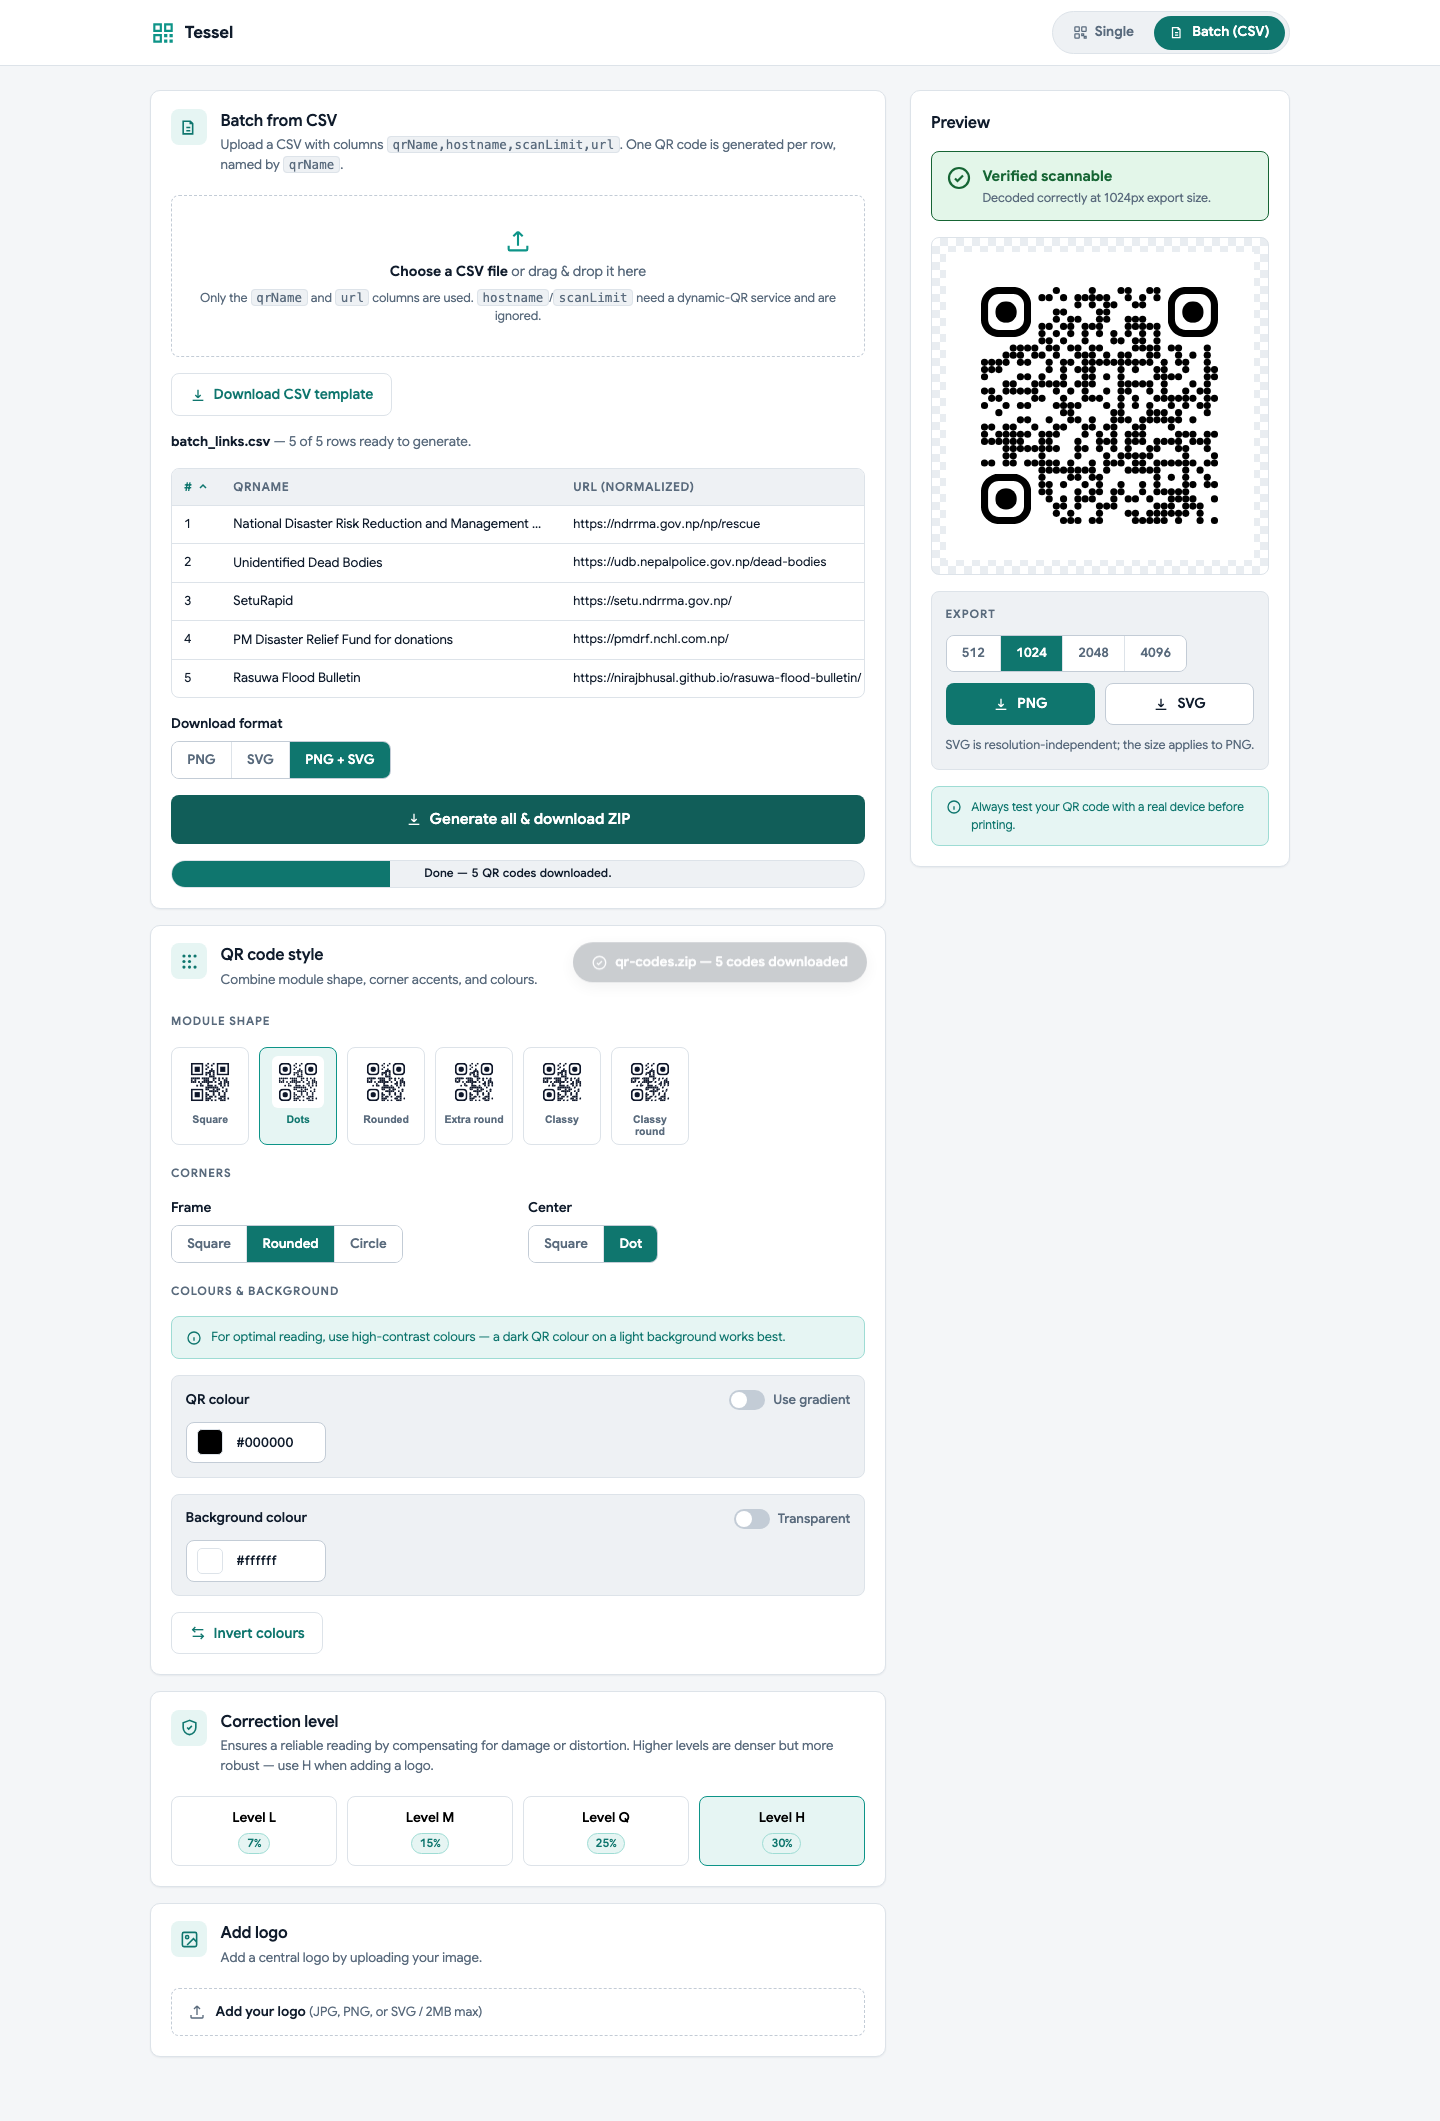
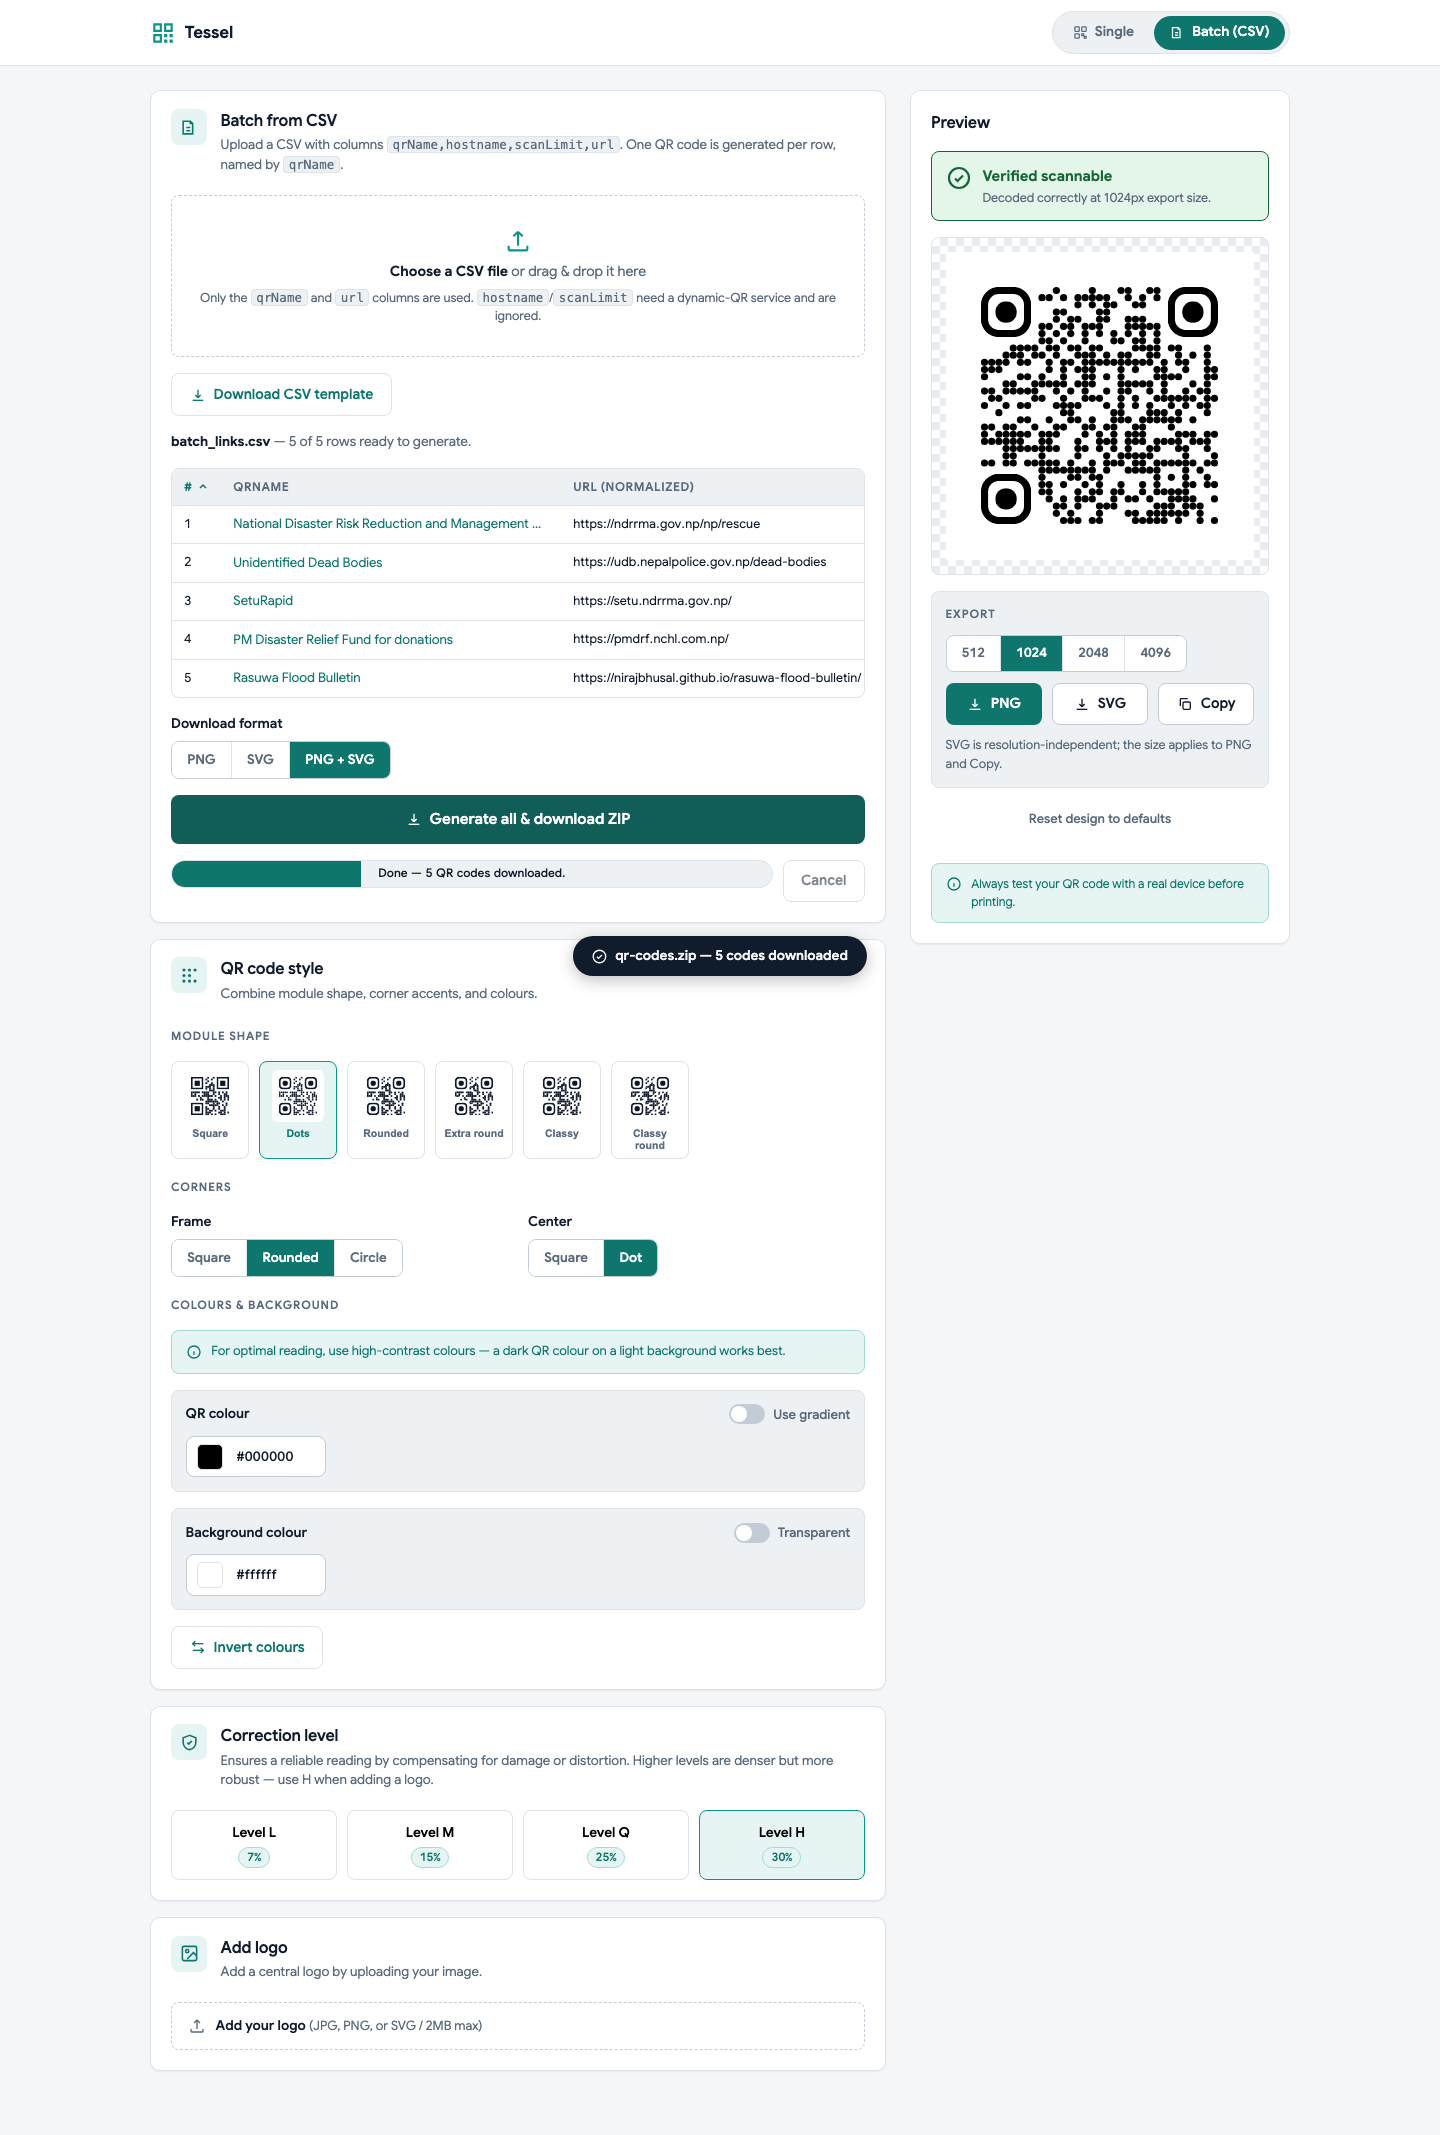
UX upgrades from experience audit
- Copy PNG to clipboard (hidden where unsupported), disabled with
  downloads when content is empty
- Arrow-key selection in every radiogroup (WAI-ARIA pattern)
- Seeded example URL selects on first focus so typing replaces it
- Reset design to defaults with toast confirmation
- Batch row names link to a Single-tab preview of that row
- Cancel button for in-flight batch generation
- #rgb shorthand accepted in hex fields
- 6 new e2e regressions; export row made shrink-safe at 375px

diff --git a/js/app.js b/js/app.js
@@ -238,6 +238,7 @@
     const empty = !state.content;
     $("btn-download-png").disabled = empty;
     $("btn-download-svg").disabled = empty;
+    $("btn-copy-png").disabled = empty;
     // Dense-code guideline: long content means small modules that scan
     // poorly in print — surface it before the user finds out at the printer.
     const hint = $("content-hint");
@@ -250,7 +251,14 @@
     }
   }
 
+  // Select the seeded example on first focus so typing replaces it directly
+  let contentPristine = true;
+  $("qr-content").addEventListener("focus", (e) => {
+    if (contentPristine) e.target.select();
+  });
+
   $("qr-content").addEventListener("input", (e) => {
+    contentPristine = false;
     state.content = e.target.value.trim();
     syncContentState();
     refreshPreview();
@@ -270,7 +278,9 @@
       refreshPreview();
     });
     hexInput.addEventListener("input", () => {
-      const v = hexInput.value.trim();
+      let v = hexInput.value.trim();
+      // accept #rgb shorthand
+      if (/^#[0-9a-fA-F]{3}$/.test(v)) v = "#" + [...v.slice(1)].map((c) => c + c).join("");
       if (/^#[0-9a-fA-F]{6}$/.test(v)) {
         state[key] = v;
         colorInput.value = v;
@@ -307,15 +317,19 @@
   });
 
   // ---------- Segmented helpers ----------
+  function setSegmented(containerId, datasetKey, value) {
+    $(containerId).querySelectorAll(".seg-btn").forEach((b) => {
+      const on = b.dataset[datasetKey] === value;
+      b.classList.toggle("active", on);
+      if (b.getAttribute("role") === "radio") b.setAttribute("aria-checked", String(on));
+    });
+  }
+
   function bindSegmented(containerId, datasetKey, apply) {
-    const container = $(containerId);
-    container.addEventListener("click", (e) => {
+    $(containerId).addEventListener("click", (e) => {
       const btn = e.target.closest(".seg-btn");
       if (!btn) return;
-      container.querySelectorAll(".seg-btn").forEach((b) => {
-        b.classList.toggle("active", b === btn);
-        if (b.getAttribute("role") === "radio") b.setAttribute("aria-checked", String(b === btn));
-      });
+      setSegmented(containerId, datasetKey, btn.dataset[datasetKey]);
       apply(btn.dataset[datasetKey]);
     });
   }
@@ -405,6 +419,67 @@
 
   $("btn-download-png").addEventListener("click", () => downloadSingle("png"));
   $("btn-download-svg").addEventListener("click", () => downloadSingle("svg"));
+
+  // ---------- Copy to clipboard ----------
+  if (!(navigator.clipboard && window.ClipboardItem)) {
+    $("btn-copy-png").classList.add("hidden"); // no clipboard-image support
+  }
+  $("btn-copy-png").addEventListener("click", async () => {
+    try {
+      const qr = new QRCodeStyling(buildOptions());
+      const blob = await qr.getRawData("png");
+      await navigator.clipboard.write([new ClipboardItem({ "image/png": blob })]);
+      showToast("PNG copied to clipboard");
+    } catch {
+      showToast("Copy failed — try downloading instead");
+    }
+  });
+
+  // ---------- Reset design ----------
+  const DESIGN_DEFAULTS = {
+    dotsType: "dots",
+    dotsColor: "#000000",
+    dotsColor2: "#0D9488",
+    dotsGradient: false,
+    bgColor: "#ffffff",
+    bgTransparent: false,
+    cornersSquareType: "extra-rounded",
+    cornersDotType: "dot",
+    ecc: "H",
+    logo: null,
+    logoSize: 0.3,
+    logoHideDots: true,
+  };
+
+  $("btn-reset-design").addEventListener("click", () => {
+    Object.assign(state, DESIGN_DEFAULTS);
+    styleGrid.querySelectorAll(".style-option").forEach((b) => {
+      const on = b.dataset.value === state.dotsType;
+      b.classList.toggle("active", on);
+      b.setAttribute("aria-checked", String(on));
+    });
+    $("dots-color").value = state.dotsColor;
+    $("dots-color-hex").value = state.dotsColor;
+    $("dots-color2").value = state.dotsColor2;
+    $("dots-color2-hex").value = state.dotsColor2;
+    $("bg-color").value = state.bgColor;
+    $("bg-color-hex").value = state.bgColor;
+    $("dots-gradient-toggle").checked = false;
+    $("dots-color2-wrap").classList.add("hidden");
+    $("bg-transparent").checked = false;
+    $("bg-color-row").style.opacity = "1";
+    setSegmented("corner-square-style", "value", state.cornersSquareType);
+    setSegmented("corner-dot-style", "value", state.cornersDotType);
+    setEcc(state.ecc);
+    $("logo-input").value = "";
+    $("logo-chip").classList.add("hidden");
+    $("logo-options").classList.add("hidden");
+    $("logo-size").value = "30";
+    $("logo-size-val").textContent = "30%";
+    $("logo-hide-dots").checked = true;
+    refreshPreview();
+    showToast("Design reset to defaults");
+  });
 
   // ---------- Toast ----------
   let toastTimer = null;
@@ -527,17 +602,29 @@
     tbody.textContent = "";
     view.forEach((row) => {
       const tr = document.createElement("tr");
-      [
-        [String(row.index), "mono"],
-        [row.name, ""],
-        [row.url || "(missing url)", "mono"],
-      ].forEach(([text, cls]) => {
-        const td = document.createElement("td");
-        if (cls) td.className = cls;
-        td.textContent = text;
-        td.title = text;
-        tr.appendChild(td);
-      });
+
+      const tdIndex = document.createElement("td");
+      tdIndex.className = "mono";
+      tdIndex.textContent = String(row.index);
+      tr.appendChild(tdIndex);
+
+      // bridge to the Single tab: inspect any row without retyping its URL
+      const tdName = document.createElement("td");
+      const nameBtn = document.createElement("button");
+      nameBtn.type = "button";
+      nameBtn.className = "link-btn";
+      nameBtn.textContent = row.name;
+      nameBtn.title = row.valid ? `Preview “${row.name}” in the Single tab` : row.name;
+      nameBtn.disabled = !row.valid;
+      nameBtn.addEventListener("click", () => previewRow(row));
+      tdName.appendChild(nameBtn);
+      tr.appendChild(tdName);
+
+      const tdUrl = document.createElement("td");
+      tdUrl.className = "mono";
+      tdUrl.textContent = row.url || "(missing url)";
+      tdUrl.title = tdUrl.textContent;
+      tr.appendChild(tdUrl);
       const tdBadge = document.createElement("td");
       const badge = document.createElement("span");
       badge.className = `row-badge ${row.valid ? "ok" : "bad"}`;
@@ -552,6 +639,18 @@
     $("btn-batch-generate").disabled = validCount === 0;
   }
 
+  function previewRow(row) {
+    state.content = row.url;
+    state.fileName = row.name;
+    $("qr-content").value = row.url;
+    $("qr-name").value = row.name;
+    contentPristine = false;
+    setTab("single");
+    syncContentState();
+    refreshPreview();
+    showToast(`Previewing “${row.name}”`);
+  }
+
   $("batch-table").querySelector("thead").addEventListener("click", (e) => {
     const th = e.target.closest("th[data-sort]");
     if (!th || !state.batchRows.length) return;
@@ -564,6 +663,12 @@
   });
 
   // ---------- Batch: generate ZIP ----------
+  let batchAbort = false;
+  $("btn-batch-cancel").addEventListener("click", () => {
+    batchAbort = true;
+    $("btn-batch-cancel").disabled = true;
+  });
+
   $("btn-batch-generate").addEventListener("click", async () => {
     const rows = state.batchRows.filter((r) => r.valid);
     if (!rows.length) return;
@@ -574,6 +679,8 @@
     const label = $("batch-progress-label");
 
     btn.disabled = true;
+    batchAbort = false;
+    $("btn-batch-cancel").disabled = false;
     progress.classList.remove("hidden");
 
     try {
@@ -583,6 +690,7 @@
       const usedNames = new Map();
 
       for (let i = 0; i < rows.length; i++) {
+        if (batchAbort) break;
         const row = rows[i];
         bar.style.width = `${Math.round((i / rows.length) * 100)}%`;
         label.textContent = `Generating ${i + 1} of ${rows.length}: ${row.name}`;
@@ -597,17 +705,39 @@
         if (wantPng) zip.file(`${base}.png`, await qr.getRawData("png"));
       }
 
-      bar.style.width = "100%";
-      label.textContent = "Packaging ZIP…";
-      const blob = await zip.generateAsync({ type: "blob" });
-      triggerDownload(blob, "qr-codes.zip");
-      label.textContent = `Done — ${rows.length} QR code${rows.length === 1 ? "" : "s"} downloaded.`;
-      showToast(`qr-codes.zip — ${rows.length} code${rows.length === 1 ? "" : "s"} downloaded`);
+      if (batchAbort) {
+        label.textContent = "Cancelled — nothing was downloaded.";
+      } else {
+        bar.style.width = "100%";
+        label.textContent = "Packaging ZIP…";
+        const blob = await zip.generateAsync({ type: "blob" });
+        triggerDownload(blob, "qr-codes.zip");
+        label.textContent = `Done — ${rows.length} QR code${rows.length === 1 ? "" : "s"} downloaded.`;
+        showToast(`qr-codes.zip — ${rows.length} code${rows.length === 1 ? "" : "s"} downloaded`);
+      }
     } catch (err) {
       label.textContent = `Failed: ${err.message}`;
     } finally {
       btn.disabled = false;
+      $("btn-batch-cancel").disabled = true;
     }
+  });
+
+  // ---------- Keyboard: WAI-ARIA radiogroup pattern ----------
+  // Arrow keys move and select within every radiogroup (shapes, corners,
+  // correction level, export size, batch format).
+  document.querySelectorAll('[role="radiogroup"]').forEach((group) => {
+    group.addEventListener("keydown", (e) => {
+      const delta = { ArrowRight: 1, ArrowDown: 1, ArrowLeft: -1, ArrowUp: -1 }[e.key];
+      if (!delta) return;
+      const radios = [...group.querySelectorAll('[role="radio"]')];
+      const i = radios.indexOf(document.activeElement);
+      if (i === -1) return;
+      e.preventDefault();
+      const next = radios[(i + delta + radios.length) % radios.length];
+      next.focus();
+      next.click();
+    });
   });
 
   // ---------- Init ----------

diff --git a/index.html b/index.html
@@ -112,9 +112,12 @@
               <svg viewBox="0 0 24 24" fill="none" stroke="currentColor" stroke-width="2" aria-hidden="true"><path d="M12 4v12m0 0 4-4m-4 4-4-4"/><path d="M4 20h16"/></svg>
               Generate all &amp; download ZIP
             </button>
-            <div class="progress hidden" id="batch-progress">
-              <div class="progress-bar" id="batch-progress-bar"></div>
-              <span class="progress-label" id="batch-progress-label"></span>
+            <div class="progress-row hidden" id="batch-progress">
+              <div class="progress">
+                <div class="progress-bar" id="batch-progress-bar"></div>
+                <span class="progress-label" id="batch-progress-label"></span>
+              </div>
+              <button class="btn btn-secondary" id="btn-batch-cancel" type="button">Cancel</button>
             </div>
           </div>
         </div>
@@ -303,9 +306,14 @@
               <svg viewBox="0 0 24 24" fill="none" stroke="currentColor" stroke-width="2" aria-hidden="true"><path d="M12 4v12m0 0 4-4m-4 4-4-4"/><path d="M4 20h16"/></svg>
               SVG
             </button>
+            <button class="btn btn-secondary" id="btn-copy-png" type="button" aria-label="Copy PNG to clipboard">
+              <svg viewBox="0 0 24 24" fill="none" stroke="currentColor" stroke-width="2" aria-hidden="true"><rect x="9" y="9" width="11" height="11" rx="2"/><path d="M5 15V5a1 1 0 0 1 1-1h10"/></svg>
+              Copy
+            </button>
           </div>
-          <p class="hint">SVG is resolution-independent; the size applies to PNG.</p>
+          <p class="hint">SVG is resolution-independent; the size applies to PNG and Copy.</p>
         </div>
+        <button class="btn-text" id="btn-reset-design" type="button">Reset design to defaults</button>
 
         <div class="notice notice-tight">
           <svg viewBox="0 0 24 24" fill="none" stroke="currentColor" stroke-width="2" aria-hidden="true"><circle cx="12" cy="12" r="9"/><path d="M12 8h.01M12 11v5"/></svg>

diff --git a/css/styles.css b/css/styles.css
@@ -611,6 +611,24 @@ th[aria-sort="descending"] .sort-arrow { transform: rotate(180deg); }
 #batch-table td.mono { font-size: 0.78rem; }
 #batch-table tr:last-child td { border-bottom: none; }
 
+#batch-table tbody tr:hover td { background: var(--inset); }
+
+.link-btn {
+  background: none;
+  border: none;
+  padding: 0;
+  font: inherit;
+  color: var(--brand-text);
+  cursor: pointer;
+  text-align: left;
+  max-width: 100%;
+  overflow: hidden;
+  text-overflow: ellipsis;
+  white-space: nowrap;
+}
+.link-btn:hover { text-decoration: underline; }
+.link-btn:disabled { color: var(--text-muted); cursor: default; text-decoration: none; }
+
 .row-badge {
   display: inline-flex;
   align-items: center;
@@ -625,6 +643,9 @@ th[aria-sort="descending"] .sort-arrow { transform: rotate(180deg); }
 .row-badge.bad { color: var(--err); background: var(--err-bg); }
 
 /* ---------- Progress ---------- */
+.progress-row { display: flex; gap: 0.6rem; align-items: stretch; }
+.progress-row .progress { flex: 1; }
+
 .progress {
   position: relative;
   height: 28px;
@@ -740,7 +761,25 @@ th[aria-sort="descending"] .sort-arrow { transform: rotate(180deg); }
 
 .export-group .label { font-size: 0.72rem; text-transform: uppercase; letter-spacing: 0.08em; color: var(--text-muted); }
 
-.download-row { display: grid; grid-template-columns: 1fr 1fr; gap: 0.6rem; }
+.download-row { display: grid; grid-template-columns: 1fr 1fr 1fr; gap: 0.6rem; }
+.download-row .btn { min-width: 0; padding-inline: 0.5rem; }
+
+.btn-text {
+  background: none;
+  border: none;
+  font: inherit;
+  font-size: 0.8rem;
+  font-weight: 500;
+  color: var(--text-muted);
+  cursor: pointer;
+  align-self: center;
+  padding: 0.35rem 0.5rem;
+  margin: 0 auto 0.75rem;
+  display: block;
+  border-radius: 6px;
+  transition: color var(--t);
+}
+.btn-text:hover { color: var(--brand-text); text-decoration: underline; }
 
 /* ---------- Toast ---------- */
 .toast {
